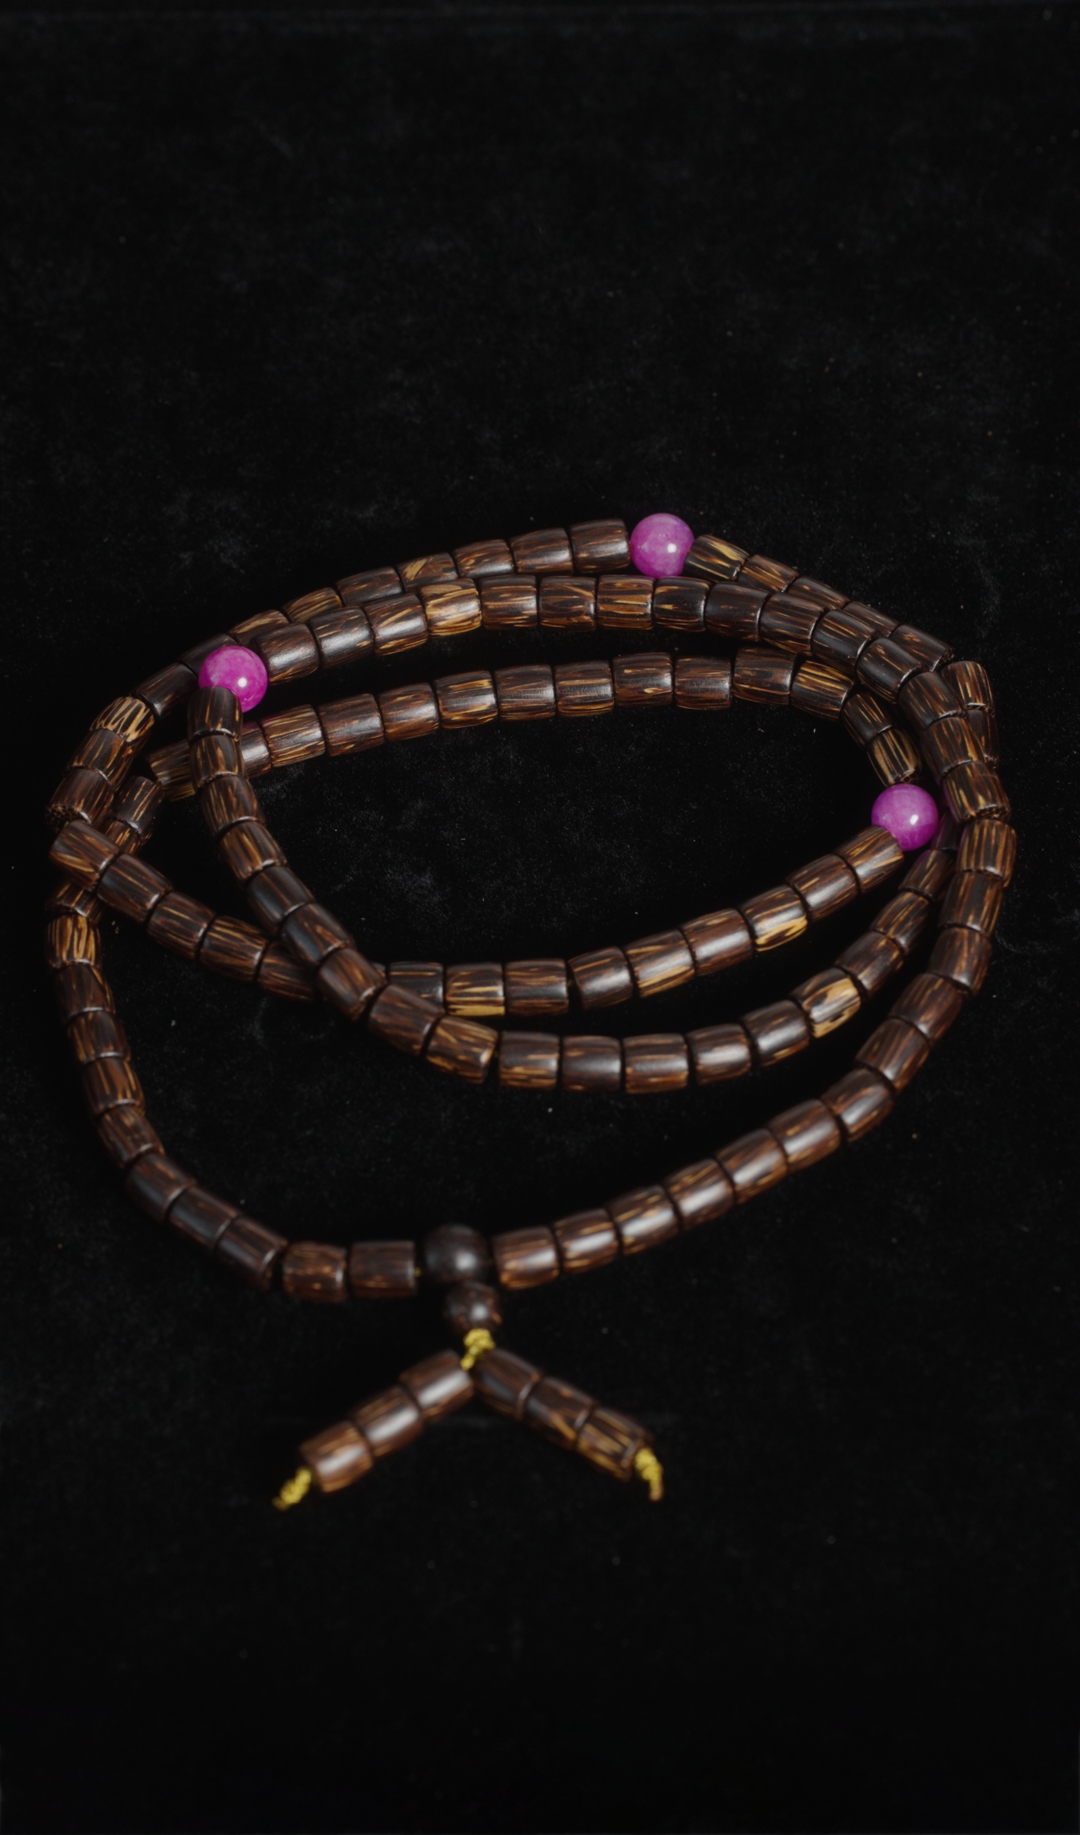
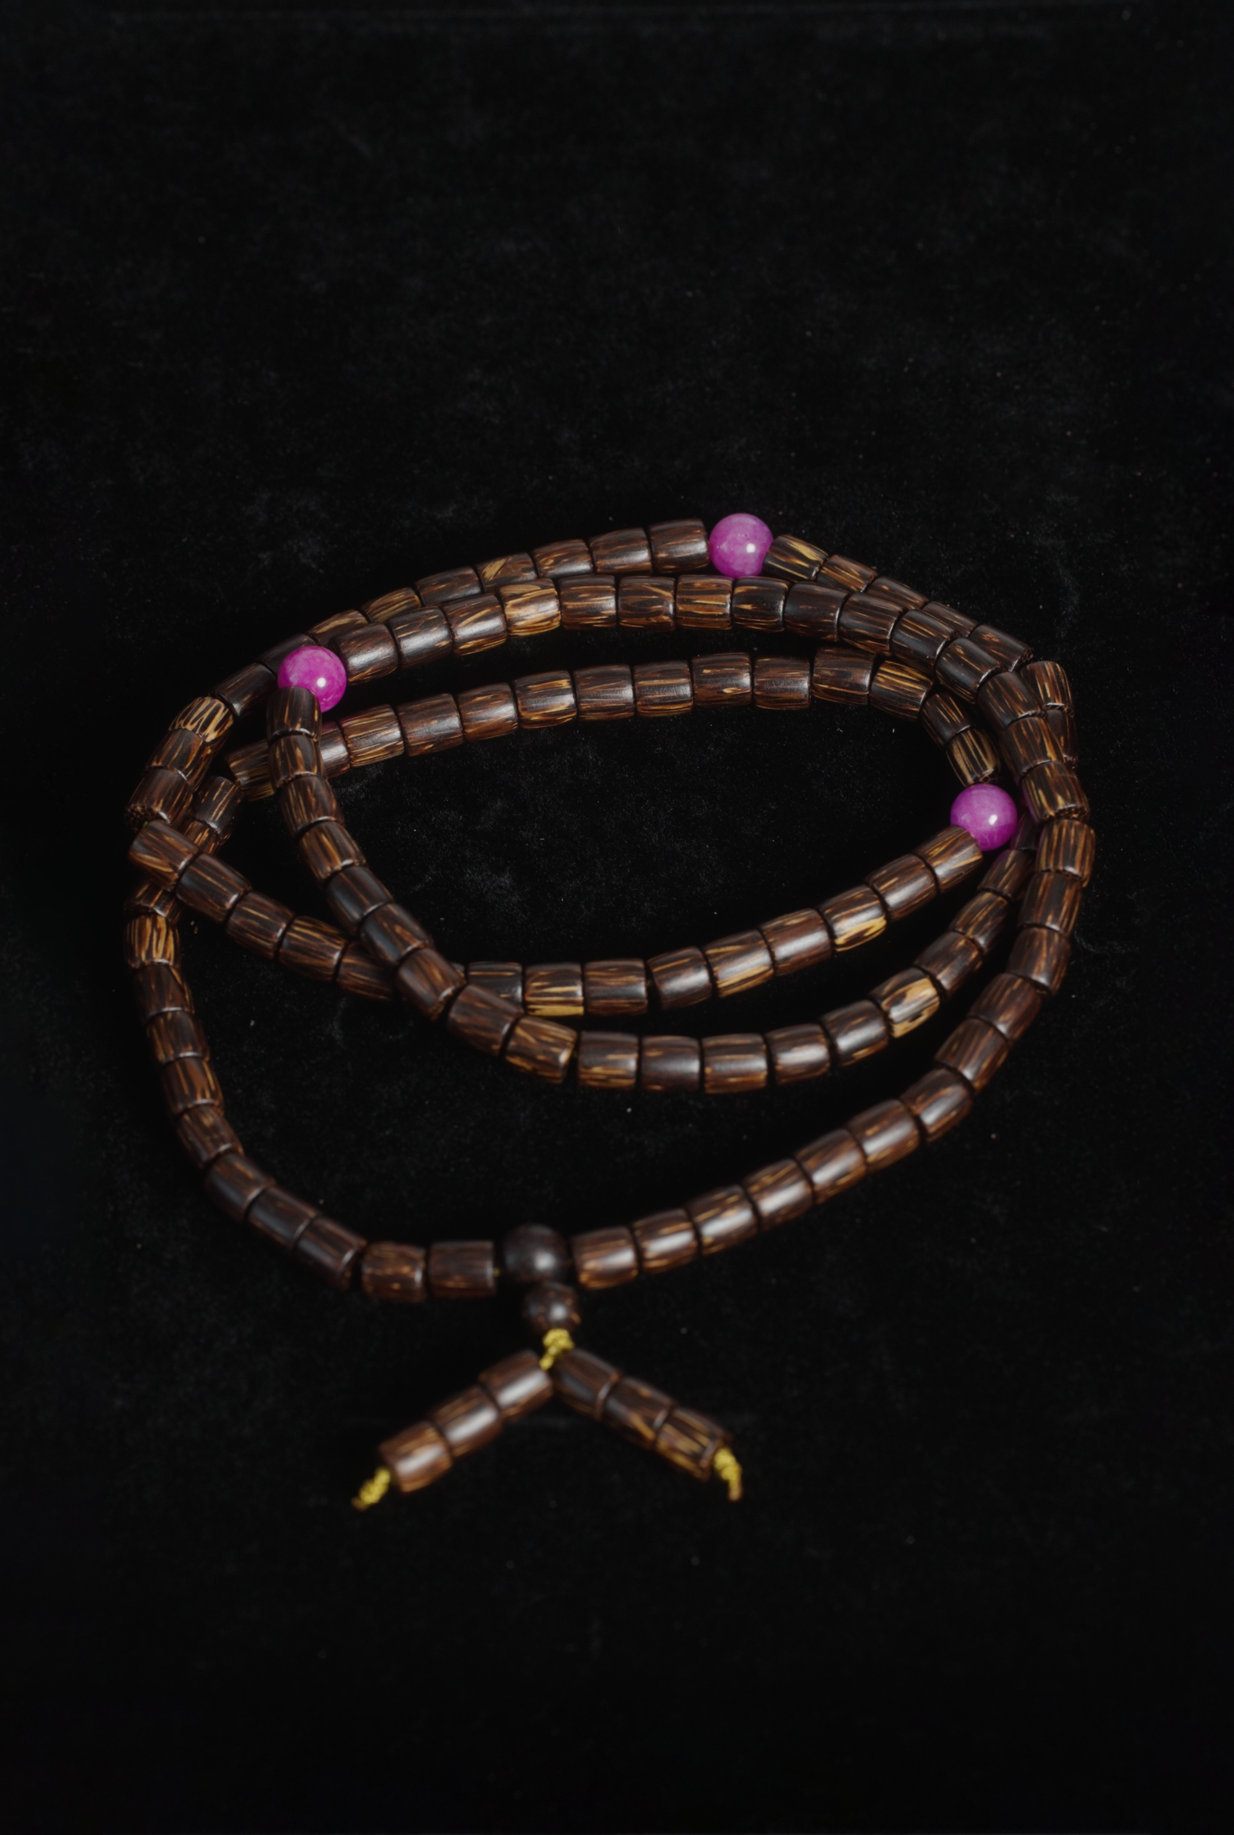
产品卡比例与交互定稿：图片 4:5（桌面首页 4:6）、仅箭头可弹窗、去「起」字、文字区收紧居中；更新 9.jpg 与暮霭/幽篁图片

Changed region(s): [[0.0306, 0.2796, 0.9472, 0.8387], [0.5194, 0.7455, 0.6111, 0.8387]]

diff --git a/assets/site.css b/assets/site.css
@@ -428,12 +428,12 @@
       overflow: hidden;
       box-shadow: 0 12px 40px var(--shadow);
       transition: all 0.5s cubic-bezier(0.22, 1, 0.36, 1);
-      cursor: pointer;
+      cursor: default;
     }
 
     .product-image {
       position: relative;
-      aspect-ratio: 1/1;
+      aspect-ratio: 4/5;
       overflow: hidden;
       background: var(--bg-warm);
     }
@@ -468,6 +468,7 @@
       grid-template-columns: 1fr auto;
       column-gap: 16px;
       align-items: start;
+      align-content: center;
     }
     .product-info > .product-series  { grid-row: 1; grid-column: 1 / -1; }
     .product-info > .product-name    { grid-row: 2; grid-column: 1; align-self: center; }
@@ -529,6 +530,7 @@
     }
 
     .product-price span {
+      display: none;
       font-size: 13px;
       color: var(--gray);
       margin-left: 4px;
@@ -1194,12 +1196,12 @@
       }
       .product-image {
         flex: 1 1 50%;
-        aspect-ratio: auto;
-        min-height: 440px;
+        aspect-ratio: 4/6;
+        min-height: 0;
       }
       .product-info {
         flex: 1 1 50%;
-        padding: 40px 40px;
+        padding: 28px 36px;
       }
     }
 

diff --git a/products.html b/products.html
@@ -102,7 +102,7 @@
     .products-grid-full .product-image {
       flex: none;
       width: 100%;
-      aspect-ratio: 1/1;
+      aspect-ratio: 4/5;
       min-height: 0;
     }
     .products-grid-full .product-info {
@@ -194,7 +194,7 @@
       <div class="label" data-page-node-id="vra86NTCqb8jcWXvdv2yEP">PRODUCTS / 12 MALAS</div>
       <h1 data-page-node-id="k4teL4AkxpiQlfJBubPXgp">12 款 108 念珠</h1>
       <p class="lead" data-page-node-id="FFmNz66lUZmDOqEib64NQp">每一串都为某一类时刻而存在。木质沉静、隔珠点睛，挑你此刻最需要的那一串。</p>
-      <p class="meta-line" data-page-node-id="jYBN4w8v8FwPxDQP8Sq2pv">天然材质 · 手工穿制 · 全部 ¥2,338 起 · 含收纳袋与 108 息引导卡</p>
+      <p class="meta-line" data-page-node-id="jYBN4w8v8FwPxDQP8Sq2pv">天然材质 · 手工穿制 · 起价 ¥2,338 · 含收纳袋与 108 息引导卡</p>
     </div>
   </section>
 

diff --git a/index.html b/index.html
@@ -1231,7 +1231,7 @@
       if (e.target === modal) closeModal();
     });
 
-    document.querySelectorAll('.product-btn, .product-card').forEach(el => {
+    document.querySelectorAll('.product-btn').forEach(el => {
       el.addEventListener('click', (e) => {
         if (sliderSwiped) {
           sliderSwiped = false;
